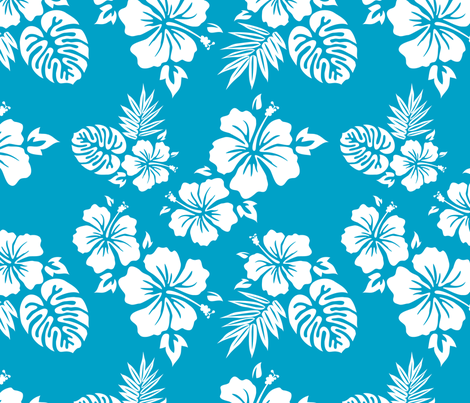
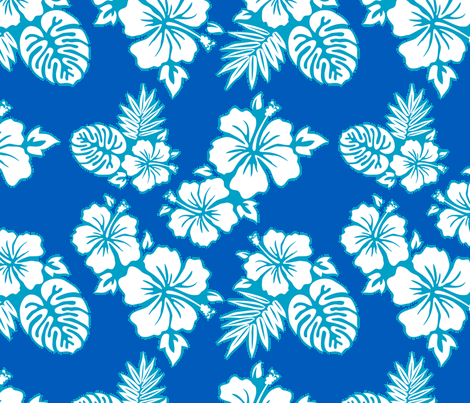
#32 increased pixels from top margin of container div, added hawaiin background, aligned text to left of container

diff --git a/frontend/course.html b/frontend/course.html
@@ -1,8 +1,13 @@
 <!DOCTYPE html>
 <html>
 <head>
+<meta charset="UTF-8">
+<meta http-equiv="X-UA-Compatible" content="IE-edge">
+<meta name="viewport" content="width=device-width, initial-scale=1.0">
+<link rel="stylesheet" type="text/css" href="https://maxcdn.bootstrapcdn.com/bootstrap/3.3.7/css/bootstrap.min.css">
+<link rel="stylesheet" href="https://www.w3schools.com/w3css/4/w3.css">
 <link rel="stylesheet" type="text/css" href="courseStyle.css">
-<meta name="viewport" content="width=device-width, initial-scale=1">
+<title>Course Page</title>
 
 <script>
 	var editModal = document.getElementById('addTaModal');
@@ -132,13 +137,11 @@
 				</div>
 		</div>-->
 		<div id="feedbackContainer" class="feedbackContainer">
-
+			
 		</div>
 	</div>
-	<script
-  src="https://code.jquery.com/jquery-3.3.1.js"
-  integrity="sha256-2Kok7MbOyxpgUVvAk/HJ2jigOSYS2auK4Pfzbm7uH60="
-  crossorigin="anonymous"></script>
+	<script src="https://maxcdn.bootstrapcdn.com/bootstrap/3.3.7/js/bootstrap.min.js"></script>
+	<script src="https://code.jquery.com/jquery-3.3.1.js" integrity="sha256-2Kok7MbOyxpgUVvAk/HJ2jigOSYS2auK4Pfzbm7uH60=" crossorigin="anonymous"></script>
 
 </body>
 

diff --git a/frontend/courseStyle.css b/frontend/courseStyle.css
@@ -1,7 +1,7 @@
 body{
 	margin: 0;
 	padding: 0;
-	background-color: #3399ff;
+	background-image: url(images/hawaii_background.png);
 	color: black;
 }
 
@@ -12,24 +12,20 @@ hr{
 
 .container{
 	width: 90%;
-	height: 600px;
 	background: #ffffff;
 	color: black;
+	margin-top: 50px;
 	text-align: center;
-	top: 50%;
-	left: 50%;
-	margin: 0 auto;
-	position: absolute;
-	transform: translate(-50%, -50%);
 	box-sizing: border-box;
 	box-shadow: 8px 8px 8px 8px rgba(0,0,0,0.2);
-	overflow: auto;	
+	
 }
 
 .container h1{
 	background-color: #d9d9d9;
 	margin: 0;
 	padding: 20px;
+	font-family: Verdana, Geneva, sans-serif;
 }
 
 .buttonStyle{
@@ -41,12 +37,9 @@ hr{
 }
 
 .feedbackContainer{
-	width: 80%;
-	height: 400px;
-	border: 1px solid black;
+	text-align: left;
 	margin: auto;
 	padding-top: 30px;
-	overflow: auto;
 }
 .modal{
 	position: fixed;

diff --git a/frontend/indexStyle.css b/frontend/indexStyle.css
@@ -4,7 +4,7 @@ body, html{
 }
 
 body {
-	background-image: url(hawaii_background.png);
+	background-image: url(images/hawaii_background.png);
 }
 .page-header{
 	background-color: #222;
@@ -141,7 +141,7 @@ h1{
 	color: white;
     width:100%;
 	height:100%;
-	background-image: url(hawain_card.jpg);
+	background-image: url(images/hawain_card.jpg);
 	background-repeat:no-repeat;
 }
 button:hover {
